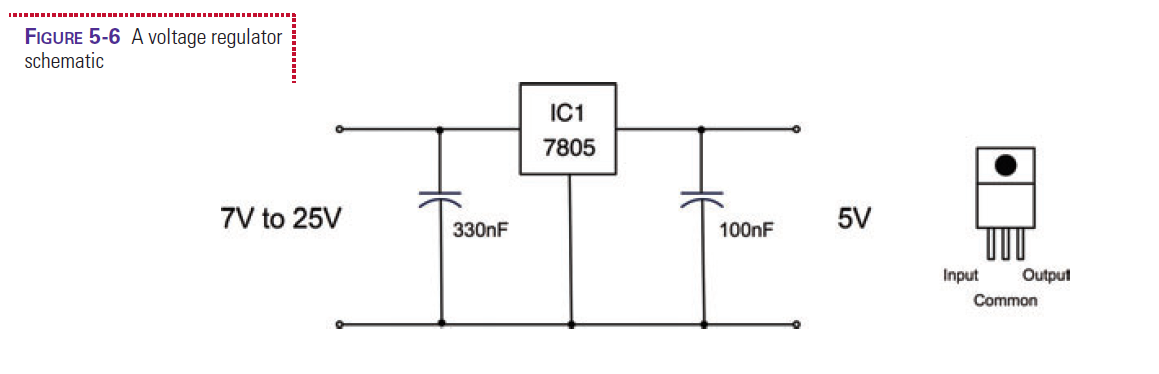
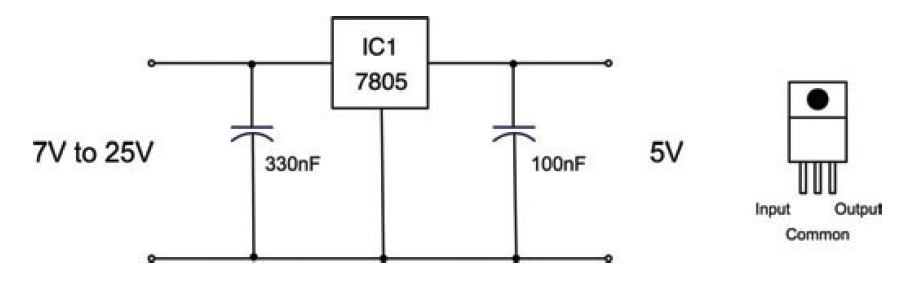
Kontroler punjenja

diff --git a/docs/regulator-napona.md b/docs/regulator-napona.md
@@ -4,7 +4,7 @@
 
 ![](https://upload.wikimedia.org/wikipedia/commons/thumb/c/ce/7812_voltage_regulator.jpg/200px-7812_voltage_regulator.jpg)
 
-**Da bismo obezbedili stabilan napon, treba nam regulator napona** (poznat i kao stabilizator napona). Regulator drži napon stabilnim kada ulazni napon varira. Radi tako što poredi ulazni napon sa referentnim naponom - ako izlaz pređe zadatu vrednost, regulator povećava otpor, ako padne ispod, smanjuje otpor. U regulatorima napona glavni element je tranzistor (obično bipolarni ili MOSFET).
+**Da bismo obezbedili stabilan napon, treba nam regulator napona** (poznat i kao stabilizator napona). Regulator isporučuje stabilan napon kada ulazni napon varira. Regulator radi tako što poredi ulazni napon sa referentnim naponom - ako napon pređe zadatu vrednost, povećava otpor, a ako padne ispod, smanjuje. U regulatorima napona glavni element je tranzistor (obično bipolarni ili MOSFET).
 
 U kontekstu punjenja baterija, ova komponenta naziva se **kontroler punjenja** (*charge controller*). U kontekstu auto-elektronike naziva se **regler**.
 
@@ -12,7 +12,12 @@ U kontekstu punjenja baterija, ova komponenta naziva se **kontroler punjenja** (
 
 [wiki](https://en.wikipedia.org/wiki/Charge_controller)
 
-Glavna funkcija kontrolera punjenja je da reguliše snagu koja dolazi do baterije, da se ne prepune i oštete. Noću je napon baterije veći od napona solarnog panela. Budući da elektricitet teče od višeg napona ka nižem, bez kontrolera bi oticao iz baterije.
+Kontroler punjenja reguliše snagu koja dolazi do baterije, da se ona ne prepuni i ošteti. Njegove glavne funkcije su:
+
+- **Stabilizacija napona** – smanjuje i stabilizuje napon do nivoa bezbednog za bateriju.
+- **Zaštita od prepunjavanja** – kada baterija dostigne pun napon, kontroler prekida struju da spreči oštećenje.
+- **Zaštita od vraćanja struje** - noću je napon baterije veći od napona solarnog panela. Budući da elektricitet teče od višeg napona ka nižem, bez kontrolera bi oticao iz baterije.
+- **Zaštita od potpunog pražnjenja** – kontroler isključuje potrošače ako napon baterije padne ispod granice.
 
 Mnogi kontroleri prilagođavaju napon i struju punjenja na osnovu nivoa napunjenosti baterije.
 
@@ -20,6 +25,6 @@ Mnogi kontroleri prilagođavaju napon i struju punjenja na osnovu nivoa napunjen
 
 ![](slike/regulator-napona.png)
 
-Slika pokazuje kako se koristi najčešći regulator napona: IC 7805. Uz pomoć te komponente i dva kondenzatora, svaki ulazni napon između 7V i 25V se stabilizuje u konstantnih 5V. 
+Dijagram pokazuje kako se koristi najčešći regulator napona: IC 7805. Uz pomoć te komponente i dva kondenzatora, svaki ulazni napon između 7V i 25V se stabilizuje u konstantnih 5V. 
 
 Kondenzatori su mali rezervoari napona koji integrisanom regulatoru napona omogućuju stabilan rad.
